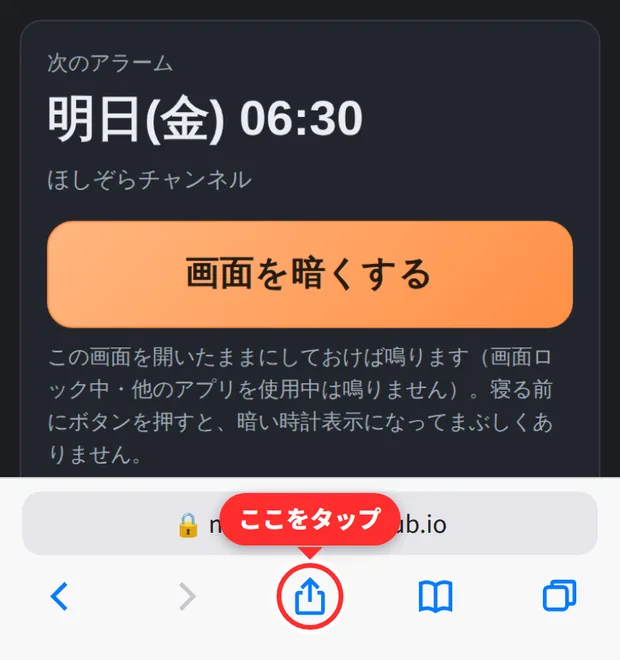
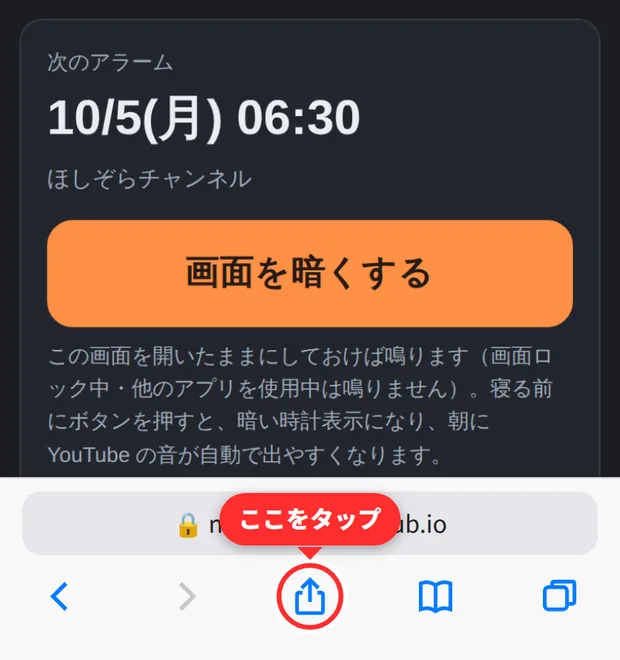
Add files via upload

Changed region(s): [[0.0613, 0.3333, 0.9194, 0.7273], [0.0613, 0.0606, 0.5823, 0.303], [0.8887, 0.3333, 0.9194, 0.3636]]

diff --git a/index.html b/index.html
@@ -9,7 +9,7 @@
 <meta name="apple-mobile-web-app-status-bar-style" content="black-translucent">
 <meta name="apple-mobile-web-app-title" content="推しと共に目覚ましアラーム(仮)">
 <meta name="theme-color" content="#0e1116">
-<link rel="manifest" href="manifest.webmanifest?v=1.8.2">
+<link rel="manifest" href="manifest.webmanifest?v=1.9.1">
 <link rel="apple-touch-icon" href="icons/apple-touch-icon.png">
 <link rel="icon" type="image/png" href="icons/icon-192.png">
 <title>推しと共に目覚ましアラーム(仮)</title>
@@ -293,6 +293,8 @@ html:not(.public) .pubonly{display:none!important}
 #ring .rtitle{font-size:14px;color:var(--muted)}
 #ring .rname{font-size:18px;font-weight:700;margin:2px 0 10px}
 .playerbox{position:relative;width:100%;max-width:960px;margin:0 auto;aspect-ratio:16/9;min-height:200px;background:#000;border-radius:12px;overflow:hidden;flex:none}
+#ring.prime .rbtns,#ring.prime .vol,#ring.prime .tapsound{display:none!important}
+.tapsound{display:block;width:100%;max-width:960px;margin:12px auto 0;padding:18px 12px;font-size:19px;font-weight:800;border-radius:16px;animation:glow 1.6s ease-in-out infinite}
 .playerbox iframe,#ytPlayer{position:absolute;inset:0;width:100%;height:100%}
 #ring .rmsg{margin:10px auto;max-width:960px;width:100%}
 #ring .rbtns{display:flex;gap:10px;flex-wrap:wrap;max-width:960px;width:100%;margin:10px auto 0}
@@ -553,6 +555,7 @@ html:not(.public) .pubonly{display:none!important}
   <div class="rtitle" id="rTitle">アラーム</div>
   <div class="rname" id="rName"></div>
   <div class="playerbox" id="ytHolder"><div id="ytPlayer"></div></div>
+  <button class="btn primary tapsound" id="tapSound" style="display:none">🔊 ここをタップして YouTube の音を出す</button>
   <div class="rmsg note" id="rMsg" style="display:none"></div>
   <div class="vol" id="rVolBox"><label class="small muted">音量 <b id="rVolLabel"></b></label><input type="range" id="rVol" min="0" max="100" step="5"></div>
   <div class="rbtns">
@@ -574,7 +577,7 @@ html:not(.public) .pubonly{display:none!important}
 <div id="toast"></div>
 <input type="file" id="importFile" accept="application/json" style="display:none">
 
-<script src="config.js?v=1.8.2"></script>
+<script src="config.js?v=1.9.1"></script>
 <script>
 'use strict';
 /* =========================================================
@@ -602,7 +605,7 @@ const IS_TEST = /^(localhost|127\.0\.0\.1)$/.test(location.hostname) || /\/test\
 const _burl = String((IS_TEST && CFG.testBackendUrl) || CFG.backendUrl || '').trim();
 const BACKEND = /^https:\/\//.test(_burl) ? _burl : '';
 const PUBLIC = !!BACKEND;
-const APP_VERSION = '1.8.2'; // ← 公開ファイルを更新するたびに数字を上げる（利用者に更新案内が出ます）
+const APP_VERSION = '1.9.1'; // ← 公開ファイルを更新するたびに数字を上げる（利用者に更新案内が出ます）
 if (PUBLIC) document.documentElement.classList.add('public');
 const hasApi = () => PUBLIC || !!state.apiKey;
 
@@ -1358,15 +1361,20 @@ function ensurePlayer() {
   return playerP;
 }
 function onPlayerState(e) {
+  if (priming) { if (e.data === YT.PlayerState.PLAYING) setTimeout(() => endPrime(true), 1000); return; }
   playing = e.data === YT.PlayerState.PLAYING;
   if (playing) {
     if (current) current.everPlayed = true;
-    stopChime(); hideRingMsg();
-    if (current) { try { player.unMute(); player.setVolume(current.volume); } catch (_) {} }
+    const mutedAuto = !!(current && current.mutedAuto && !current.userTapped);   // 音なしで映像だけ流している状態
+    if (!mutedAuto) {
+      primedAt = Date.now();   // 音つきで再生できた＝このあとは自動でも音を出しやすい
+      stopChime(); hideRingMsg(); showTapSound(false);
+      if (current) { try { player.unMute(); player.setVolume(current.volume); } catch (_) {} }
+    }
     if (current && !testMode && !current.reported) {
       current.reported = true;
       if (!current.test && !state.settings.firstPlayAt) { state.settings.firstPlayAt = Date.now(); save(); }
-      track(current.test ? 'test_play_start' : 'play_start', { ch: current.alarm.channelId, title: current.alarm.channelTitle, vid: current.videoId, vtitle: current.title, live: current.isLive, via: 'embed', ms: Date.now() - current.firedAt });
+      track(current.test ? 'test_play_start' : 'play_start', { ch: current.alarm.channelId, title: current.alarm.channelTitle, vid: current.videoId, vtitle: current.title, live: current.isLive, via: 'embed', muted: mutedAuto, ms: Date.now() - current.firedAt });
     }
     if (testMode) {
       track('prime_ok');
@@ -1376,6 +1384,7 @@ function onPlayerState(e) {
   }
 }
 function onPlayerError(e) {
+  if (priming) { endPrime(false); return; }
   const code = e.data;
   track('player_error', { code, vid: current?.videoId, ch: current?.alarm?.channelId, env: ENV || '' });
   // 153 = 埋め込み元のURLが分からない（ファイルを直接開いた時など）/ 101・150 = 配信者が埋め込みを禁止
@@ -1396,12 +1405,50 @@ function onPlayerError(e) {
 /* =========================================================
  * アラーム発火
  * ========================================================= */
+/* =========================================================
+ * 朝の準備（スマホ）：「画面を暗くする」を押した時に、映像を1秒だけ音なしで流しておく
+ *  - iPhone は「タップをきっかけに一度再生したプレーヤー」なら、あとから自動で音つき再生できることが多い
+ *  - 規約上プレーヤーを隠して再生してはいけないので、見える状態で1秒だけ流す
+ *  - うまくいかなかった朝は、アラーム音＋「音を出す」ボタンで補う
+ * ========================================================= */
+let priming = false, primedAt = 0, primeTimer = null, cuedId = '';
+function cueNext() {   // 次に鳴るアラームの動画を前もって読み込んでおく（タップした瞬間に再生を始められるように）
+  if (!isMobile || priming || !player || typeof player.cueVideoById !== 'function' || $('#ring').classList.contains('open')) return;
+  const nx = nextOverall(), v = nx && nx.alarm.lastVideo;
+  if (!v || cuedId === v.id) return;
+  try { player.cueVideoById(v.id); cuedId = v.id; } catch (e) {}
+}
+function primeForMorning() {
+  if (!isMobile || priming || !player || typeof player.playVideo !== 'function' || $('#ring').classList.contains('open')) return false;
+  if (primedAt) return false;   // このページではもう準備できている
+  const nx = nextOverall(), v = nx && nx.alarm.lastVideo;
+  if (!v) return false;
+  priming = true;
+  $('#ring').classList.add('open', 'prime');
+  $('#rTitle').textContent = '朝の準備';
+  $('#rName').textContent = nx.alarm.channelTitle || '';
+  setRingMsg('🔈 朝に YouTube の音が自動で出るように、映像を1秒だけ流して準備しています（音は出ません）。');
+  try { player.mute(); if (cuedId === v.id) player.playVideo(); else player.loadVideoById(v.id); } catch (e) {}
+  clearTimeout(primeTimer); primeTimer = setTimeout(() => endPrime(false), 5000);
+  return true;
+}
+function endPrime(ok) {
+  if (!priming) return;
+  priming = false; clearTimeout(primeTimer);
+  try { player.pauseVideo(); } catch (e) {}
+  cuedId = ''; playing = false;
+  $('#ring').classList.remove('open', 'prime'); hideRingMsg();
+  if (ok) primedAt = Date.now();
+  track('prime', { ok: !!ok });
+}
+
 let pending = null;
 let ringSeq = 0;   // 再生画面を開くたび・閉じるたびに増える番号（閉じた後に、待っていた処理が画面を開き直さないように）
 async function fire(a, isTest = false) {
+  if (priming) endPrime(false);
   const firedAt = Date.now(), seq = ++ringSeq;
   let video = null, fromCache = false, errKind = '';
-  track(isTest ? 'test_fire' : 'alarm_fire', { ch: a.channelId, title: a.channelTitle, mode: a.mode, play: a.play || 'live', standby: standbyOn, visible: document.visibilityState === 'visible' });
+  track(isTest ? 'test_fire' : 'alarm_fire', { ch: a.channelId, title: a.channelTitle, mode: a.mode, play: a.play || 'live', standby: standbyOn, visible: document.visibilityState === 'visible', primed: !!primedAt });
   ringIsTest = isTest;
   showRing(a, null, isTest ? 'テスト再生' : 'アラーム');
   setRingMsg('⏳ 流す動画を確認しています…');
@@ -1439,17 +1486,39 @@ async function startVideo(a, video, meta = {}) {
 
   const p = await ensurePlayer();
   if (meta.seq && meta.seq !== ringSeq) return;
+  playing = false;
   try { p.loadVideoById(video.id); p.unMute(); p.setVolume(a.volume); p.playVideo(); } catch (e) {}
   $('#rVol').value = a.volume; $('#rVolLabel').textContent = a.volume;
+  showTapSound(false);
   clearTimeout(verifyTimer);
-  verifyTimer = setTimeout(() => {
-    if (!playing && current?.videoId === video.id && !current.everPlayed) {
-      track('play_blocked', { ch: a.channelId, vid: video.id, test: !!meta.test });
-      startChime(a.volume);
-      setRingMsg(meta.test ? 'プレーヤーの ▶ をタップすると再生が始まります（本番のアラームでは、再生が始まらない時にアラーム音で起こします）。' : '自動再生がブロックされました。プレーヤーの ▶ をタップしてください。', 'warn');
-    }
-  }, 8000);
+  /* 音つきの自動再生ができたか確認する（iPhone などは、タップなしでは音を出せない）
+   *  - 2.5秒後から1秒ごとに確認。読み込み中（バッファ中）なら最大8秒まで待つ
+   *  - 止められていたら：映像だけ音なしで流し、アラーム音で起こし、大きなボタン1回で YouTube の音に切り替える */
+  const startedAt = Date.now();
+  const check = () => {
+    if (current?.videoId !== video.id || (meta.seq && meta.seq !== ringSeq)) return;
+    if (playing || current.everPlayed) return;
+    let st = -1; try { st = p.getPlayerState(); } catch (e) {}
+    if (st === 3 && Date.now() - startedAt < 8000) { verifyTimer = setTimeout(check, 1000); return; }
+    track('play_blocked', { ch: a.channelId, vid: video.id, test: !!meta.test, st, primed: !!primedAt });
+    current.mutedAuto = true;
+    try { p.mute(); p.playVideo(); } catch (e) {}
+    showTapSound(true);
+    startChime(a.volume);   // テスト再生では鳴らさない
+    // プレーヤーの中のボタンで音を出した場合も、同じように切り替える
+    const c = current;
+    const watch = setInterval(() => {
+      if (current !== c || !c.mutedAuto) { clearInterval(watch); return; }
+      let muted = true; try { muted = p.isMuted(); } catch (e) {}
+      if (!muted) { clearInterval(watch); c.userTapped = true; c.mutedAuto = false; stopChime(); showTapSound(false); hideRingMsg(); }
+    }, 1000);
+    setRingMsg(meta.test
+      ? '音つきの自動再生が止められました。オレンジのボタンをタップすると YouTube の音が出ます（本番ではこの時、アラーム音で起こします）。'
+      : (isIOS ? 'iPhone は自動では YouTube の音を出せないため、アラーム音で起こしています。' : 'ブラウザが音つきの自動再生を止めたため、アラーム音で起こしています。') + 'オレンジのボタンをタップすると、YouTube の音に切り替わります。', 'warn');
+  };
+  verifyTimer = setTimeout(check, 2500);
 }
+function showTapSound(on) { const b = $('#tapSound'); if (b) b.style.display = on ? '' : 'none'; }
 function notify(a, video) {
   if (!('Notification' in window) || Notification.permission !== 'granted') return;
   try {
@@ -1476,7 +1545,7 @@ function setRingMsg(msg, kind) { const m = $('#rMsg'); m.style.display = ''; m.t
 function hideRingMsg() { $('#rMsg').style.display = 'none'; }
 function closeRing() {
   if ($('#ring').classList.contains('open') && current) track('ring_close', { ch: current.alarm?.channelId, vid: current.videoId, sec: Math.round((Date.now() - current.shownAt) / 1000), played: !!current.reported, test: !!current.test || testMode, play: current.alarm?.play || 'live', live: !!current.isLive });
-  $('#ring').classList.remove('open'); stopChime(); pending = null; clearTimeout(verifyTimer); ringSeq++;
+  $('#ring').classList.remove('open'); stopChime(); pending = null; clearTimeout(verifyTimer); ringSeq++; showTapSound(false);
   try { player && player.stopVideo(); } catch (e) {}
   current = null;
 }
@@ -1532,6 +1601,7 @@ async function requestWake() {
 async function startStandby() {
   if (!state.alarms.some(a => a.enabled && a.channelId)) { toast('有効なアラームがありません。「＋ 追加」から作成してください'); return; }
   unlockAudio();
+  const didPrime = primeForMorning();   // タップの中で実行（iPhone はタップの中でしか「音を出す許可」を得られない）
   standbyOn = true;
   if (state.settings.lockMode) { silentEl.src = SILENT_URL; silentEl.play().catch(() => {}); setMediaMeta('推しと共に目覚ましアラーム', '待機中'); }
   $('#sbMsg').textContent = isIOS ? '自動で暗い時計の表示になります。' : '別のタブやアプリを使っていても大丈夫です。';
@@ -1540,7 +1610,7 @@ async function startStandby() {
   requestAnimationFrame(() => requestAnimationFrame(() => sb.classList.add('show')));
   await requestWake();
   standbyAt = Date.now();
-  track('standby_start', { lock: !!state.settings.lockMode, wake: !!wakeLock, alarms: state.alarms.filter(a => a.enabled).length });
+  track('standby_start', { lock: !!state.settings.lockMode, wake: !!wakeLock, alarms: state.alarms.filter(a => a.enabled).length, prime: didPrime });
   ensurePlayer();
 }
 function stopStandby() {
@@ -1636,7 +1706,7 @@ function render() {
   $('#nextTime').textContent = nx ? fmtDate(nx.at) : '—';
   $('#nextSub').textContent = nx ? `${nx.alarm.channelTitle || ''}${nx.alarm.label ? ' ・ ' + nx.alarm.label : ''}` : 'アラームが設定されていません';
   $('#standbyHint').textContent = isIOS
-    ? 'この画面を開いたままにしておけば鳴ります（画面ロック中・他のアプリを使用中は鳴りません）。寝る前にボタンを押すと、暗い時計表示になってまぶしくありません。'
+    ? 'この画面を開いたままにしておけば鳴ります（画面ロック中・他のアプリを使用中は鳴りません）。寝る前にボタンを押すと、暗い時計表示になり、朝に YouTube の音が自動で出やすくなります。'
     : 'PC はこのタブを開いたままにしておけば鳴ります。ボタンを押すと、画面が消えないよう時計表示で待機します。';
   const hr = new Date().getHours(), night = !!nx && (hr >= 20 || hr < 4);
   $('#btnStandby').classList.toggle('night', night);
@@ -2194,7 +2264,7 @@ const hasActiveAlarm = () => state.alarms.some(a => a.enabled && a.channelId);
 function keepAwakeIfNeeded() { if (isMobile && hasActiveAlarm() && !wakeLock && document.visibilityState === 'visible') requestWake(); }
 ['pointerdown', 'touchend', 'keydown'].forEach(t => document.addEventListener(t, () => {
   unlockAudio(); keepAwakeIfNeeded();
-  if (!playerP && !ENV && hasActiveAlarm()) ensurePlayer();   // YouTube プレーヤーを前もって用意しておく（最初の再生が遅れないように）
+  if (!ENV && hasActiveAlarm()) ensurePlayer().then(cueNext).catch(() => {});   // YouTube プレーヤーと次の動画を前もって用意しておく
 }, { capture: true, passive: true }));
 document.addEventListener('visibilitychange', () => { if (document.visibilityState === 'visible') keepAwakeIfNeeded(); });
 
@@ -2223,6 +2293,23 @@ $('#rClose').addEventListener('click', () => {
   if (!standbyOn && hasActiveAlarm()) startStandby();   // 本番のアラーム → 暗い時計の画面へ
 });
 $('#rStopChime').addEventListener('click', stopChime);
+/* 「音を出す」ボタン：タップの中で音を出す指示を送る（タップがあれば iPhone でも音を出せる） */
+$('#tapSound').addEventListener('click', () => {
+  if (!current || !player) return;
+  const c = current;
+  c.userTapped = true; c.mutedAuto = false;
+  stopChime(); showTapSound(false);
+  try { player.unMute(); player.setVolume(c.volume); player.playVideo(); } catch (e) {}
+  track('unmute_tap', { ch: c.alarm?.channelId, vid: c.videoId, test: !!c.test, ms: Date.now() - c.firedAt });
+  hideRingMsg();
+  // うまく切り替わらなかった時（映像が止まった・音が出ないまま）だけ、次の手を案内する
+  setTimeout(() => {
+    if (current !== c) return;
+    let st = -1, muted = false; try { st = player.getPlayerState(); muted = player.isMuted(); } catch (e) {}
+    if (st !== 1 && st !== 3) setRingMsg('プレーヤーの ▶ をタップすると、音つきで再生が始まります。', 'warn');
+    else if (muted) setRingMsg('音が出ない時は、プレーヤーの中のスピーカーのマーク（ミュート解除）をタップしてください。', 'warn');
+  }, 1800);
+});
 $('#rVol').addEventListener('input', e => { $('#rVolLabel').textContent = e.target.value; try { player.setVolume(+e.target.value); } catch (_) {} });
 $('#rOpenYT').addEventListener('click', () => { track('open_youtube', { vid: current?.videoId, ch: current?.alarm?.channelId }); stopChime(); });
 
@@ -2251,7 +2338,7 @@ const SLIDE_3 = () => `<span class="gstepno">STEP 3 / 3</span>
 <h3 class="gt"><span class="gbig">操作はこれだけ！</span><br>実際にセットしてみよう</h3>
 <div class="gimg g3"><img src="${GIMG(3)}" alt="アラームをセットした後の画面"></div>
 ${isMobile
-  ? `<div class="gtip">📱 スマホは<b>この画面を開いたまま</b>にしておく必要があります（画面ロック中・他のアプリを使用中は鳴りません）。<br>🌙 おすすめは、寝る前に<b>「画面を暗くする」</b>をタップ。充電しながら置いておけば、まぶしくない時計表示で待機します。</div>`
+  ? `<div class="gtip">📱 スマホは<b>この画面を開いたまま</b>にしておく必要があります（画面ロック中・他のアプリを使用中は鳴りません）。<br>🌙 おすすめは、寝る前に<b>「画面を暗くする」</b>をタップ。まぶしくない時計表示で待機し、朝に YouTube の音が自動で出やすくなります（押さなかった朝は、アラーム音で起こします）。</div>`
   : `<div class="gtip">💻 PC は<b>このタブを開いたまま</b>なら、他のタブやアプリで作業していても大丈夫。時刻になると YouTube が流れます。<br><span class="small muted">PC がスリープしないよう、電源の設定だけ確認してください。</span></div>`}
 <details class="gmore"><summary>📖 もっと詳しく（${isIOS ? 'ホーム画面に追加・ロック中のこと' : 'ポップアップ・スマホで使う時'}）</summary><div>${isIOS
   ? `<b>Safari 専用です</b>（Chrome や LINE の中のブラウザでは使えません）。<br><b>ホーム画面に追加</b>すると、設定が消えにくくなり、全画面で使えます。<br><button type="button" class="btn sm" data-a2hs="intro" style="margin:8px 0">📲 ホーム画面に追加するやり方（画像つき）</button><br>マナーモードでも音は出ますが、<b>本体の音量が0だと鳴りません</b>。画面ロック中は YouTube を流せないため、⚙設定の「ロック中モード（実験的）」をオンにするとアラーム音で起こします。`
